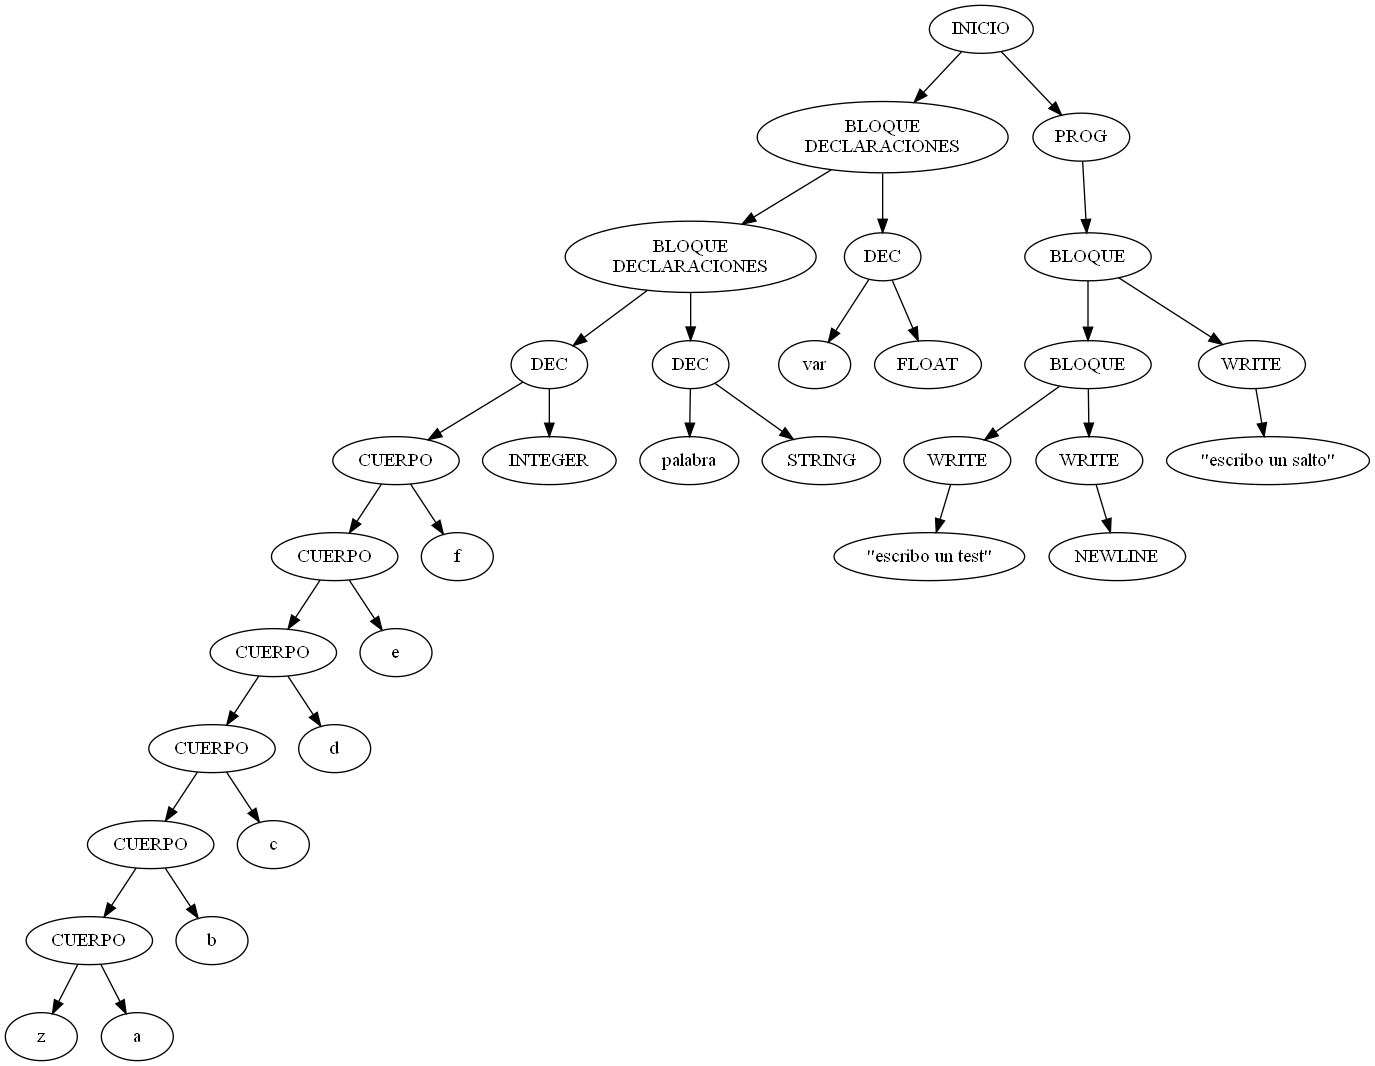
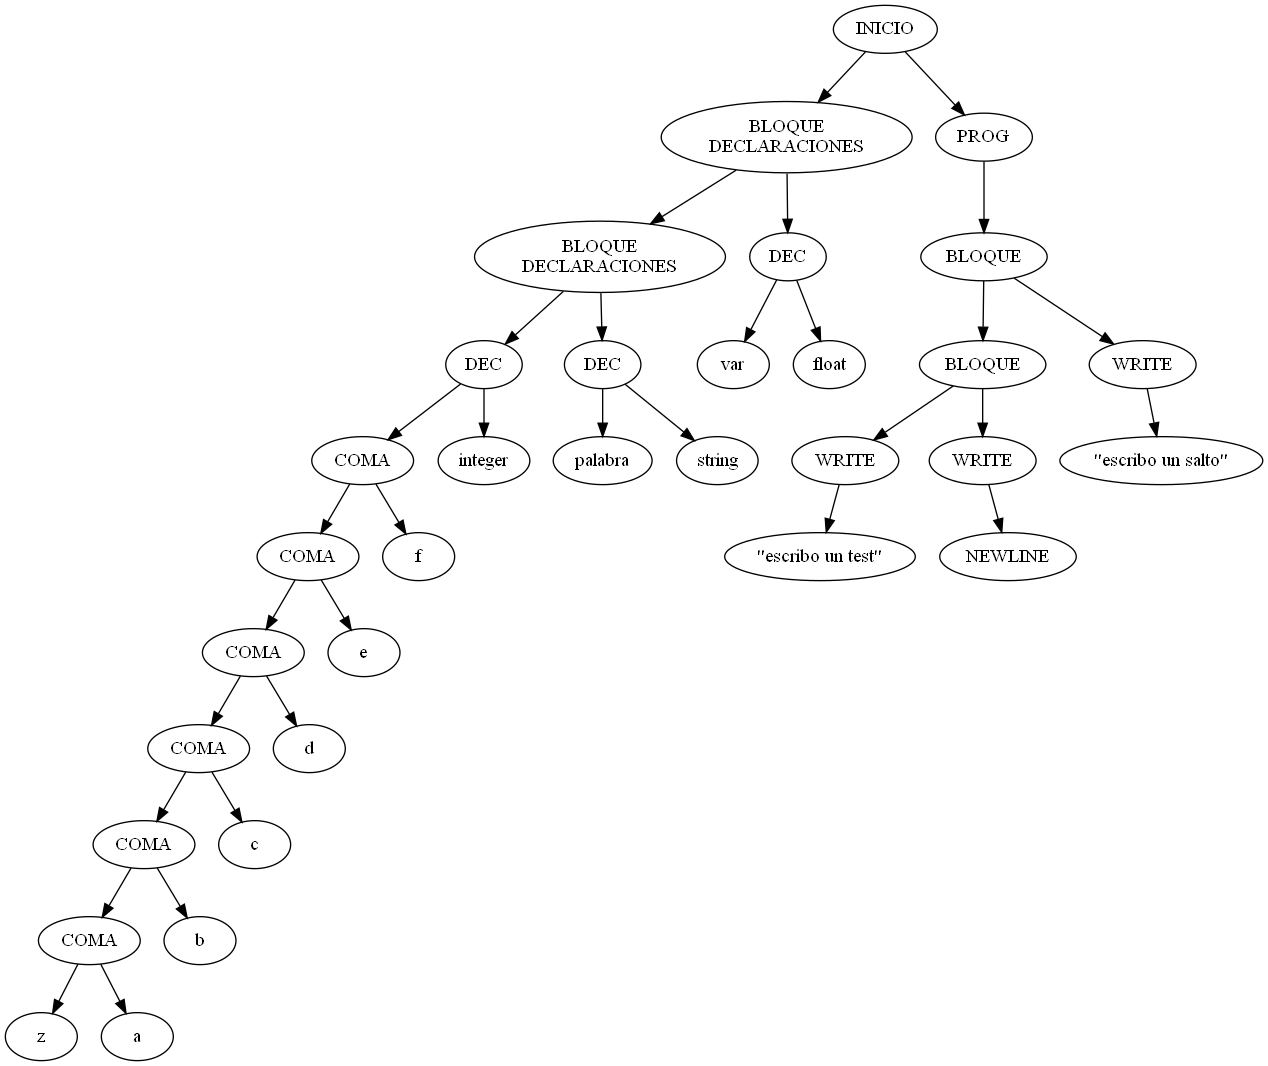
Declaraciones y seteo de tipos a los id

diff --git a/lib/arboles.c b/lib/arboles.c
@@ -7,121 +7,145 @@
 
 void crear_arbol(t_arbol *pa)
 {
-    *pa=NULL;
+	*pa = NULL;
 }
 
-int crear_nodo( t_nodoa *hijo_izquierdo, t_nodoa *padre, t_nodoa *hijo_derecho,FILE* pf)
+int crear_nodo(t_nodoa *hijo_izquierdo, t_nodoa *padre, t_nodoa *hijo_derecho, FILE *pf)
 {
-	padre->izq=hijo_izquierdo;
-	padre->der=hijo_derecho;
-	if(padre->izq!=NULL){
-		fprintf(pf,"nodo%d->nodo%d\n",padre->info.indice,hijo_izquierdo->info.indice);
+	padre->izq = hijo_izquierdo;
+	padre->der = hijo_derecho;
+	if (padre->izq != NULL)
+	{
+		fprintf(pf, "nodo%d->nodo%d\n", padre->info.indice, hijo_izquierdo->info.indice);
 	}
-	if(padre->der!=NULL){
-		fprintf(pf,"nodo%d->nodo%d\n",padre->info.indice,hijo_derecho->info.indice);
+	if (padre->der != NULL)
+	{
+		fprintf(pf, "nodo%d->nodo%d\n", padre->info.indice, hijo_derecho->info.indice);
 	}
 	return TODO_BIEN;
 }
 
-t_nodoa* crear_hoja(const t_info* d,FILE* pf)
+t_nodoa *crear_hoja(const t_info *d, FILE *pf)
 {
-	char comillas='"';
-	t_nodoa* p_nodo;
-	p_nodo=(t_nodoa*)malloc(sizeof(t_nodoa));
-    if(p_nodo==NULL){
-        return p_nodo;
-    }
-    p_nodo->izq=NULL;
-    p_nodo->der=NULL;
-    p_nodo->info=*d;
-	fprintf(pf,"nodo%d[label=%c%s%c];\n",d->indice,comillas,d->valor,comillas);
+	char comillas = '"';
+	t_nodoa *p_nodo;
+	p_nodo = (t_nodoa *)malloc(sizeof(t_nodoa));
+	if (p_nodo == NULL)
+	{
+		return p_nodo;
+	}
+	p_nodo->izq = NULL;
+	p_nodo->der = NULL;
+	p_nodo->info = *d;
+	fprintf(pf, "nodo%d[label=%c%s%c];\n", d->indice, comillas, d->valor, comillas);
 	return p_nodo;
 }
 
-t_nodoa* obtener_nodo_con_hojas_mas_izq(t_nodoa *p_nodo,FILE* pf)
+t_nodoa *obtener_nodo_con_hojas_mas_izq(t_nodoa *p_nodo, FILE *pf)
 {
-	t_nodoa* p_nodo_objetivo;
-	char* aux;
-	while(p_nodo!=NULL){
-		if(es_padre_con_hojas(p_nodo)==0){
-			p_nodo_objetivo=p_nodo;
+	t_nodoa *p_nodo_objetivo;
+	char *aux;
+	while (p_nodo != NULL)
+	{
+		if (es_padre_con_hojas(p_nodo) == 0)
+		{
+			p_nodo_objetivo = p_nodo;
 			return p_nodo_objetivo;
 		}
-		else if(p_nodo->izq==NULL && p_nodo->der==NULL){
-			p_nodo_objetivo=NULL;
+		else if (p_nodo->izq == NULL && p_nodo->der == NULL)
+		{
+			p_nodo_objetivo = NULL;
 			return p_nodo_objetivo;
 		}
-		else if(strncmp(p_nodo->info.valor,"CUERPO",6)==0){
-			if(es_hoja(p_nodo->izq)==0){
-				if(p_nodo->info.etiqueta_escrita==0){//DEBO ESCRIBIR LA ETIQUETA DE CUERPO
-					p_nodo->info.etiqueta_escrita=1;
+		else if (strncmp(p_nodo->info.valor, "CUERPO", 6) == 0)
+		{
+			if (es_hoja(p_nodo->izq) == 0)
+			{
+				if (p_nodo->info.etiqueta_escrita == 0)
+				{ //DEBO ESCRIBIR LA ETIQUETA DE CUERPO
+					p_nodo->info.etiqueta_escrita = 1;
 					// aux=(char*)transformar_a_etiqueta(p_nodo->info.valor);
-					fprintf(pf,"%s:\n",aux);
+					fprintf(pf, "%s:\n", aux);
 				}
 			}
 		}
-		if(p_nodo->izq!=NULL){
+		if (p_nodo->izq != NULL)
+		{
 		}
-		if(es_padre_con_hojas(p_nodo->izq)==0){//RETURNO EL HIJO IZQUIERDO
-			p_nodo_objetivo=p_nodo->izq;
+		if (es_padre_con_hojas(p_nodo->izq) == 0)
+		{ //RETURNO EL HIJO IZQUIERDO
+			p_nodo_objetivo = p_nodo->izq;
 			return p_nodo_objetivo;
 		}
-		else if(p_nodo->izq!=NULL && es_hoja(p_nodo->izq)!=0){
-			p_nodo=p_nodo->izq; //AVANZO POR IZQUIERDA
+		else if (p_nodo->izq != NULL && es_hoja(p_nodo->izq) != 0)
+		{
+			p_nodo = p_nodo->izq; //AVANZO POR IZQUIERDA
 		}
-		else if(es_padre_con_hojas(p_nodo->der)==0){//RETORNO EL HIJO DERECHO
-			p_nodo_objetivo=p_nodo->der;
+		else if (es_padre_con_hojas(p_nodo->der) == 0)
+		{ //RETORNO EL HIJO DERECHO
+			p_nodo_objetivo = p_nodo->der;
 			return p_nodo_objetivo;
 		}
-		else if(p_nodo->der!=NULL && es_hoja(p_nodo->der)!=0){
-			p_nodo=p_nodo->der; //AVANZO POR DERECHA
+		else if (p_nodo->der != NULL && es_hoja(p_nodo->der) != 0)
+		{
+			p_nodo = p_nodo->der; //AVANZO POR DERECHA
 		}
-		
 	}
 	return p_nodo_objetivo;
 }
 
-int es_hoja(const t_nodoa* nodo)
+int es_hoja(const t_nodoa *nodo)
 {
-	if(nodo->izq==NULL && nodo->der==NULL){
+	if (nodo->izq == NULL && nodo->der == NULL)
+	{
 		return 0;
 	}
 	return 1;
 }
 
-void eliminar_hijos_hoja(t_nodoa* p_nodo)
+void eliminar_hijos_hoja(t_nodoa *p_nodo)
 {
-	if(p_nodo==NULL){
+	if (p_nodo == NULL)
+	{
 		return;
 	}
-	if(p_nodo->izq!=NULL){
+	if (p_nodo->izq != NULL)
+	{
 		free(p_nodo->izq);
-		p_nodo->izq=NULL;
+		p_nodo->izq = NULL;
 	}
-	if(p_nodo->der!=NULL){
+	if (p_nodo->der != NULL)
+	{
 		free(p_nodo->der);
-		p_nodo->der=NULL;
+		p_nodo->der = NULL;
 	}
 }
 
-int es_padre_con_hojas(const t_nodoa* nodo)
+int es_padre_con_hojas(const t_nodoa *nodo)
 {
-	if(nodo==NULL){
+	if (nodo == NULL)
+	{
 		return 1;
 	}
-	if(nodo->izq!=NULL){
-		if(es_hoja(nodo->izq)==0){
-			if(nodo->der==NULL){
+	if (nodo->izq != NULL)
+	{
+		if (es_hoja(nodo->izq) == 0)
+		{
+			if (nodo->der == NULL)
+			{
 				return 0;
 			}
-			else if(es_hoja(nodo->der)==0){
+			else if (es_hoja(nodo->der) == 0)
+			{
 				return 0;
 			}
 		}
 		return 1;
 	}
-	else if(nodo->der!=NULL){
-		if(es_hoja(nodo->der)==0){
+	else if (nodo->der != NULL)
+	{
+		if (es_hoja(nodo->der) == 0)
+		{
 			return 0;
 		}
 		return 1;
@@ -131,21 +155,37 @@ int es_padre_con_hojas(const t_nodoa* nodo)
 
 void graficar_arbol(t_arbol *pa)
 {
-    graficar_arbol_rec(pa,0);
+	graficar_arbol_rec(pa, 0);
 }
 
-void graficar_arbol_rec(t_arbol *pa,int n)
+void graficar_arbol_rec(t_arbol *pa, int n)
 {
-    int i;
-    if(*pa==NULL){
-        return;
-    }
-    graficar_arbol_rec(&(*pa)->der,n+1);
-    for(i=0;i<n;i++){
-        printf("\t");
-    }
-    printf("%s\n",(*pa)->info.valor);
-    graficar_arbol_rec(&(*pa)->izq,n+1);
+	int i;
+	if (*pa == NULL)
+	{
+		return;
+	}
+	graficar_arbol_rec(&(*pa)->der, n + 1);
+	for (i = 0; i < n; i++)
+	{
+		printf("\t");
+	}
+	printf("%s\n", (*pa)->info.valor);
+	graficar_arbol_rec(&(*pa)->izq, n + 1);
 }
 
+void set_tipo_ids(t_nodoa *pa, const char *tipo)
+{
+	if (pa == NULL)
+	{
+		return;
+	}
 
+	set_tipo_ids(pa->izq, tipo);
+	set_tipo_ids(pa->der, tipo);
+	if (pa->izq == NULL && pa->der == NULL)
+	{
+		printf("%s, ", pa->info.valor);
+		pa->info.tipo = strdup(tipo);
+	}	
+}

diff --git a/include/arboles.h b/include/arboles.h
@@ -38,5 +38,6 @@ t_nodoa* obtener_nodo_con_hojas_mas_izq(t_nodoa *,FILE*);
 void eliminar_hijos_hoja(t_nodoa* );
 int es_padre_con_hojas(const t_nodoa*);
 int es_hoja(const t_nodoa*);
+void set_tipo_ids(t_nodoa*, const char*);
 
 #endif // ARBOLES_H_INCLUDED
